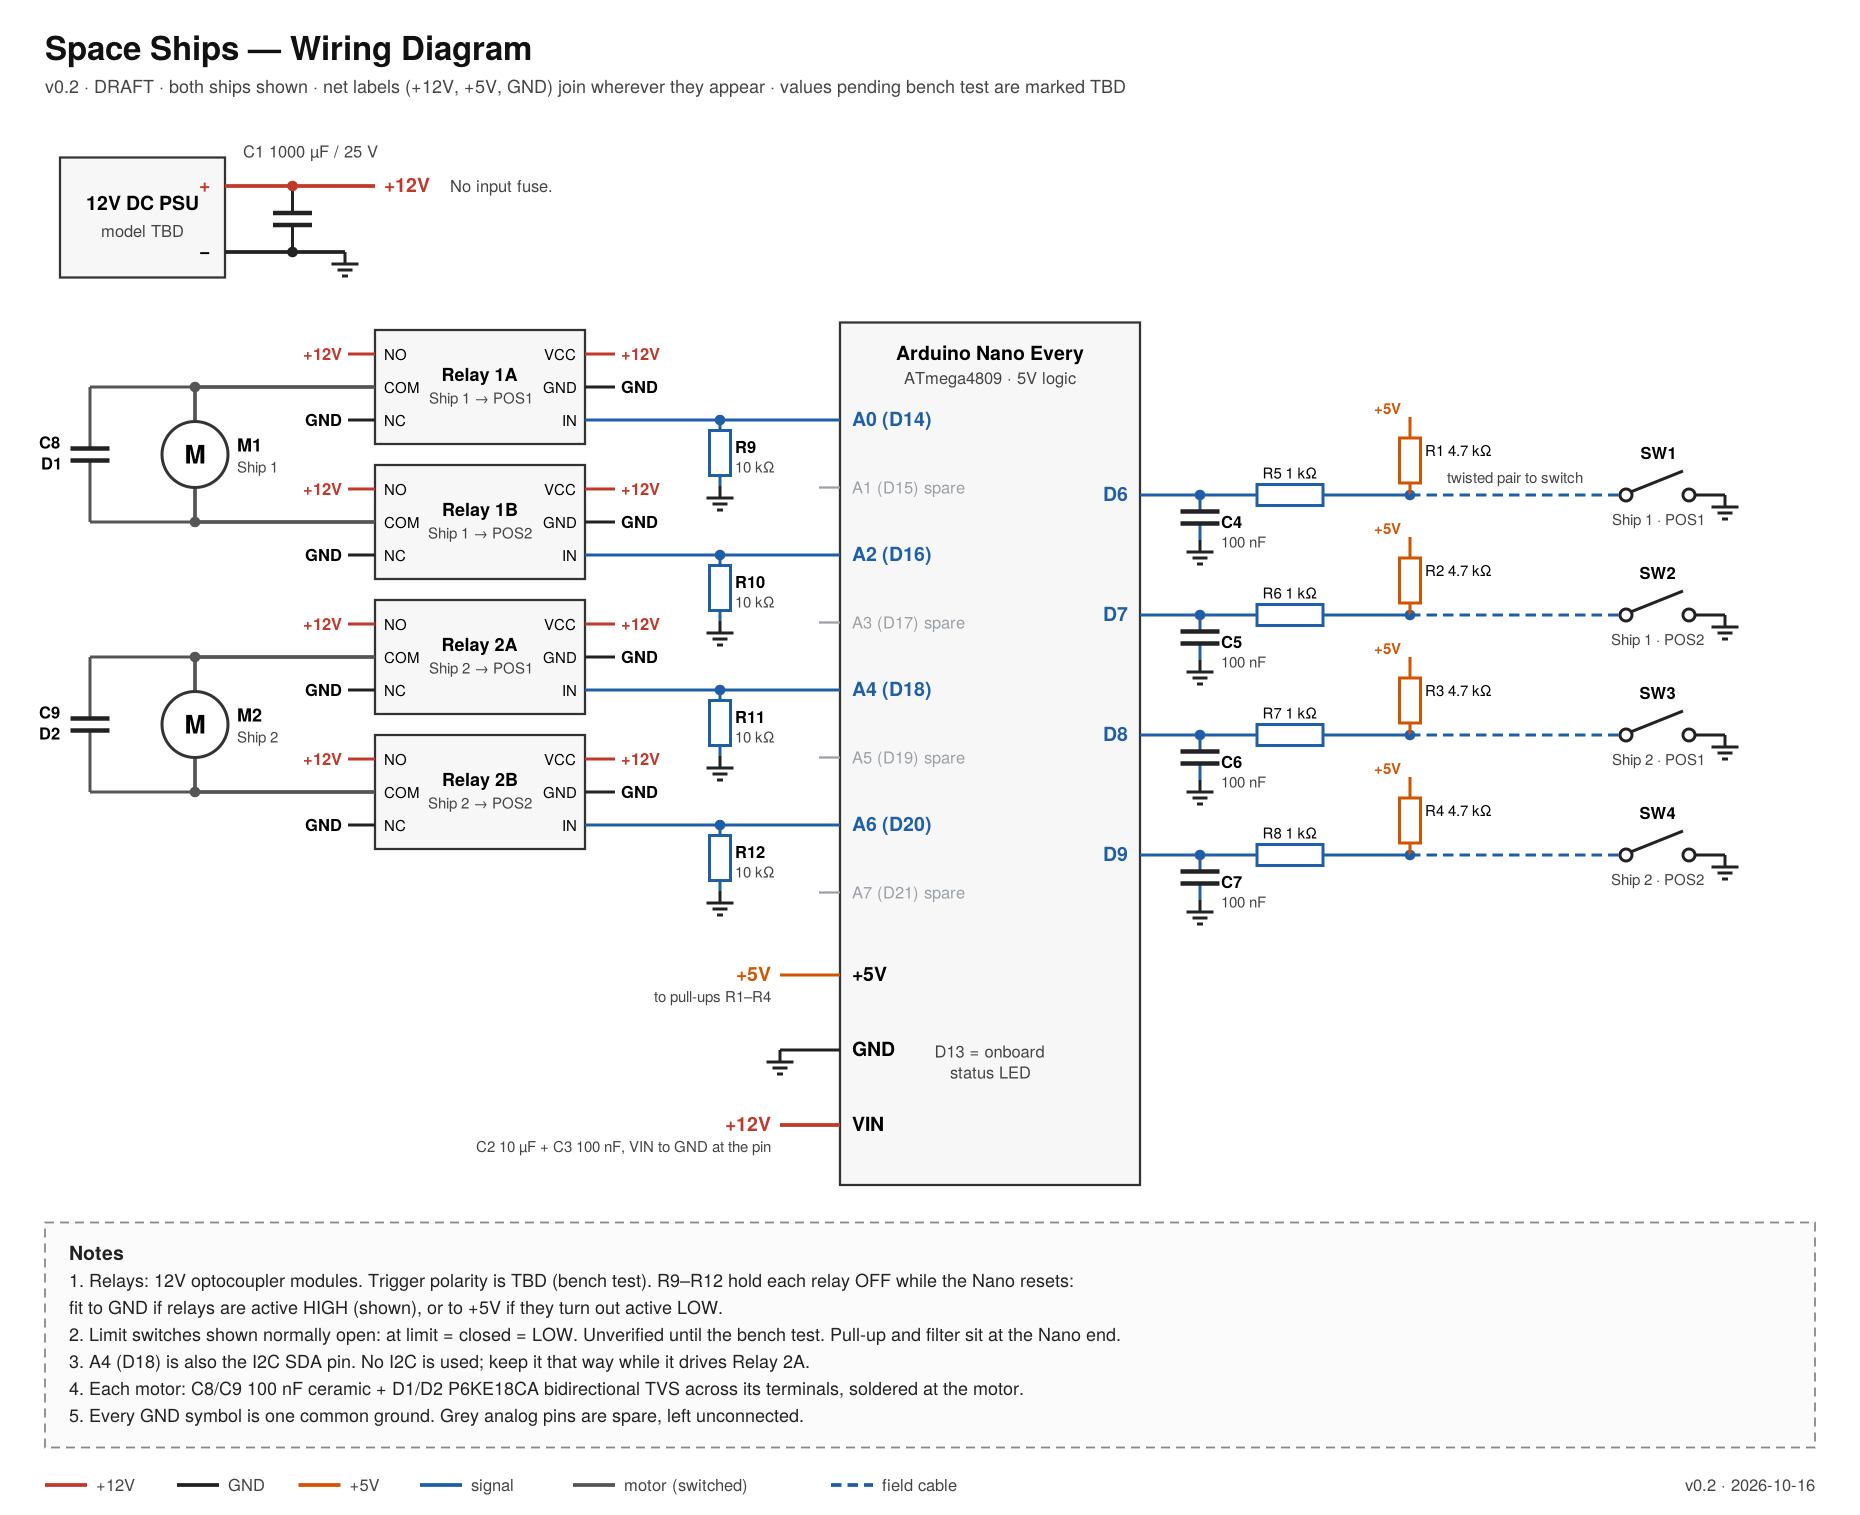
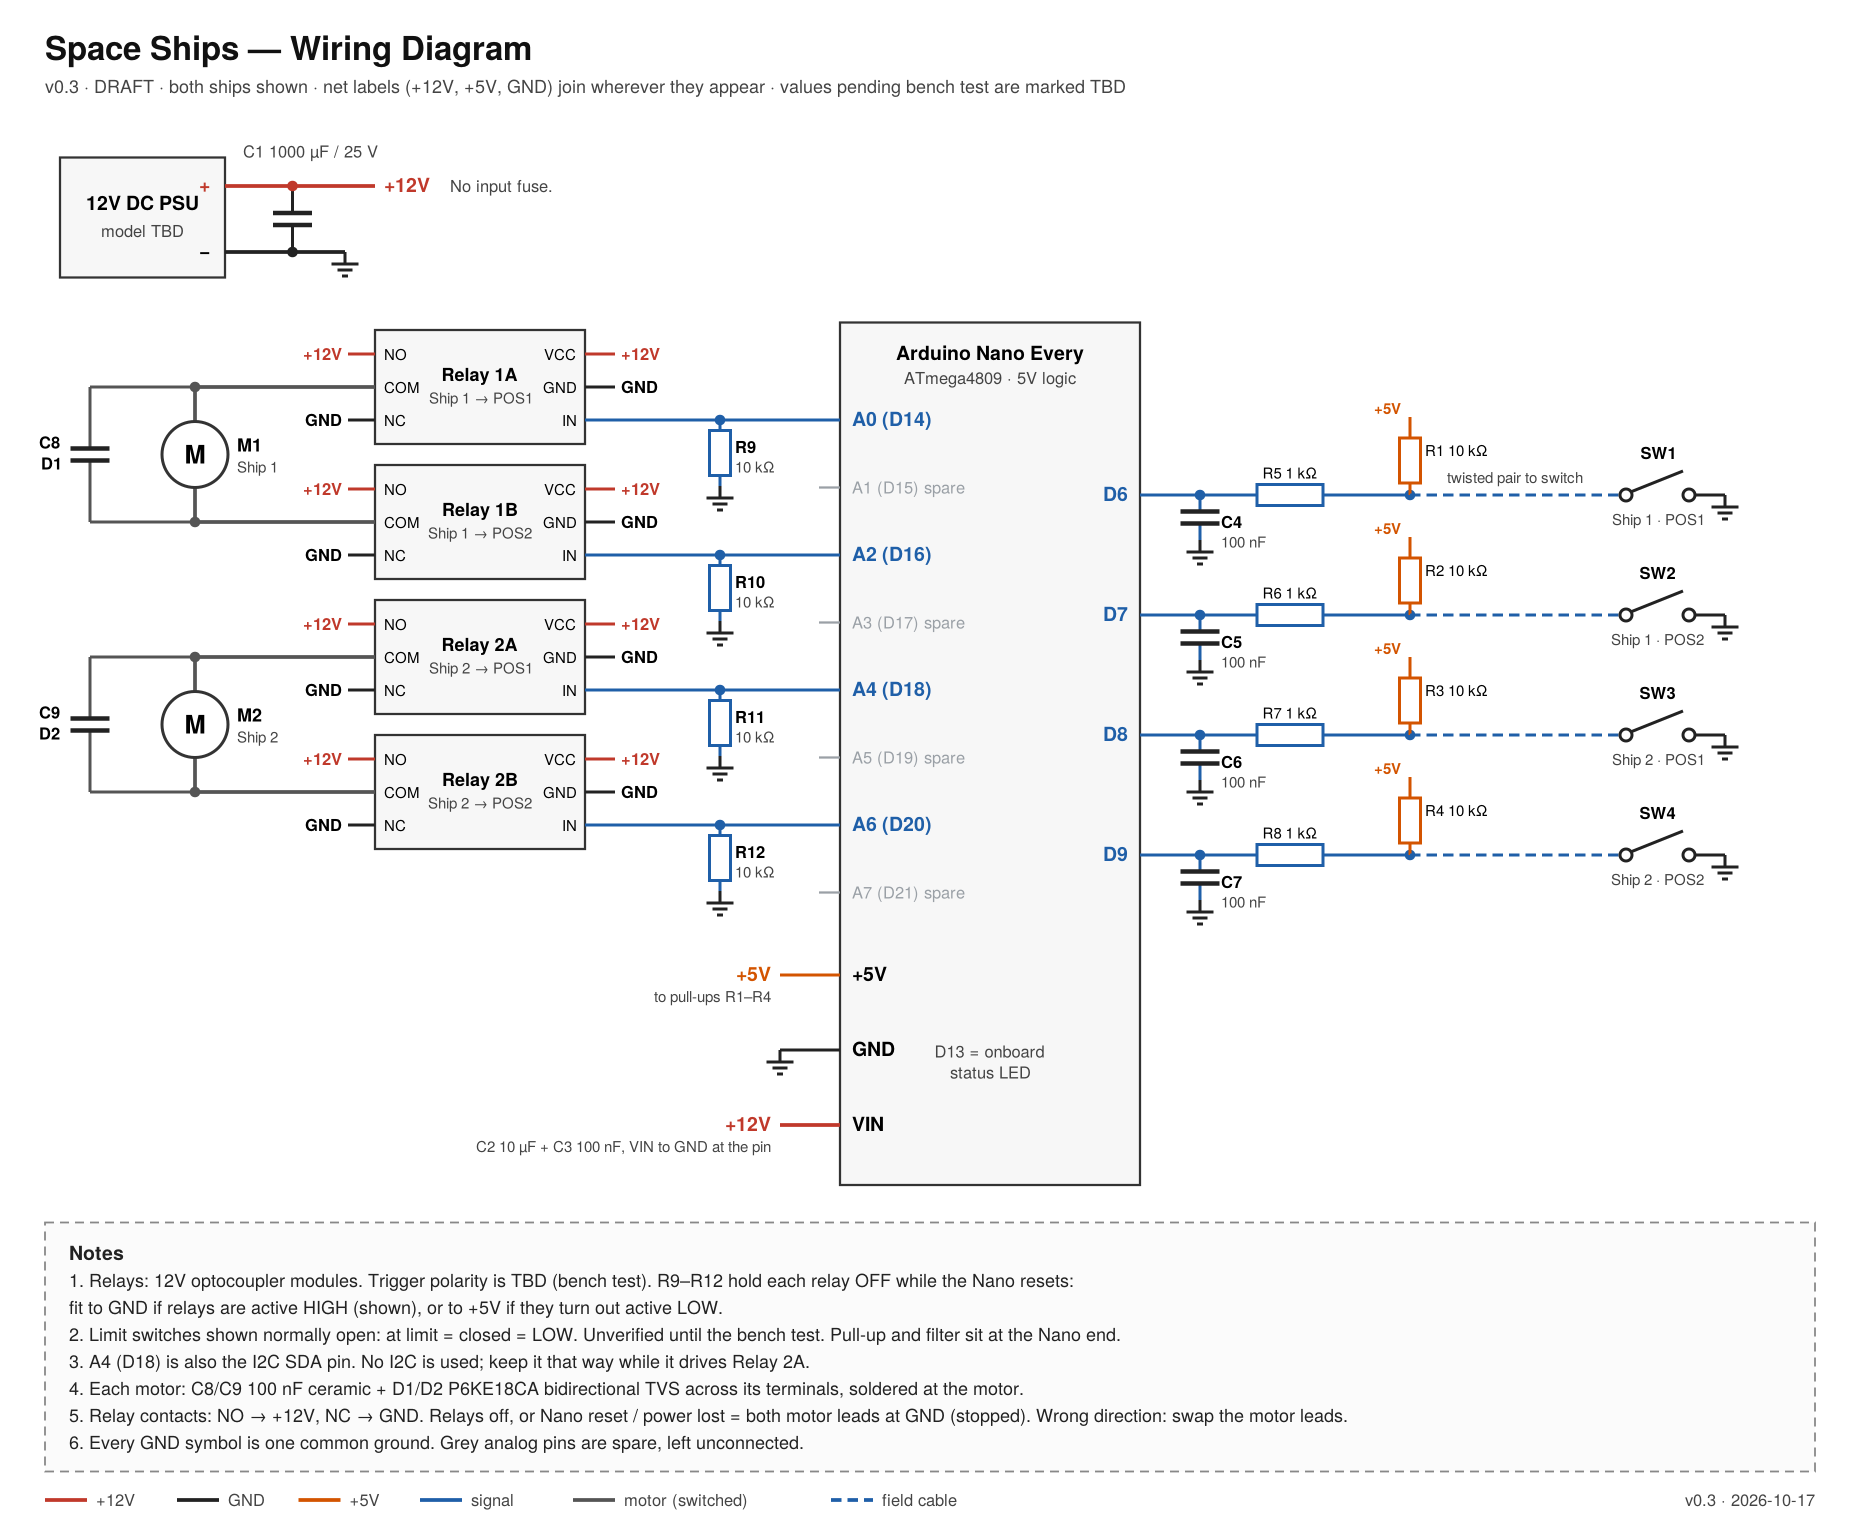
Add hold-to-jog to bench_test; 10 kOhm limit pull-ups in docs
bench_test:
- Hold 5-8 to jog a ship (same order as 1-4); dead-man on key auto-repeat
- Stops on release, at the target limit, on any other key, or on any fault
- Reuses moveArrived() checks: both limits, wrong way, timeout
- Blocks reversing a motor within REVERSE_PAUSE of it stopping
- Ignores repeats of a held key after a jog stops, so it can't restart itself

Docs:
- Limit pull-ups R1-R4: 4.7k -> 10k, with safe ranges (ATmega4809 Table 4-16)
- Wiring diagram v0.3: R1-R4 10k, note on fail-safe relay contacts
- CLAUDE.md: bench_test description includes jog

Claude-Session: https://claude.ai/code/session_01QFekpdcCQPzgiZhMDM4HP3

diff --git a/src/bench_test.cpp b/src/bench_test.cpp
@@ -6,6 +6,7 @@
 /*****  Space Ships — bench test  *****
  *  Serial menu for bench setup: 115200 baud, single-key commands (no Enter needed).
  *    1-4  Click one relay for CLICK_TIME (check RELAY_ON polarity)
+ *    5-8  Hold to jog a ship (same order as 1-4). Stops on release, at the limit, or on any fault.
  *    w    Watch raw limit levels, print on every change (check NO/NC → LIMIT_ACTIVE)
  *    a/b  Time ship 1/2: home to POS1, then ROUND_TRIPS round trips, print averages
  *    s    Stop all motors
@@ -25,6 +26,13 @@
 #define REVERSE_PAUSE       2000UL   // Motor off between legs (ms), so it stops before reversing
 #define ROUND_TRIPS         5
 
+// Jog (hold 5-8). A serial terminal sends no key-release event: a held key sends one
+// character, pauses (desktop "repeat delay"), then repeats. The motor runs only while
+// characters keep arriving (dead-man). Repeat delay/rate are desktop settings: unverified,
+// tune these if a held key stutters (raise FIRST) or stops late (lower REPEAT).
+#define JOG_FIRST_TIMEOUT   700UL    // Wait this long after the first press for repeats to start (ms)
+#define JOG_REPEAT_TIMEOUT  200UL    // Once repeating, stop this long after the last character (ms)
+
 /****** Types ******/
 struct LimitSwitch {
   uint8_t pin;
@@ -41,7 +49,7 @@ struct BenchShip {
   LimitSwitch limitPos2;
 };
 
-enum Mode { IDLE, CLICKING, WATCHING, HOMING, MOVING, PAUSING };
+enum Mode { IDLE, CLICKING, WATCHING, HOMING, MOVING, PAUSING, JOGGING };
 enum Dir  { TO_POS1, TO_POS2 };
 
 /****** Objects ******/
@@ -57,6 +65,19 @@ unsigned long modeStart = 0;
 uint8_t legIndex = 0;                    // Even = to POS2, odd = to POS1
 unsigned long legTimes[2][ROUND_TRIPS];  // [Dir][trip], ms
 uint8_t watchRaw[4];                     // Last printed raw levels in watch mode
+
+// Per-ship motor history, so a jog can't reverse a motor that has only just stopped.
+bool motorOn[2]           = { false, false };
+bool motorUsed[2]         = { false, false };
+Dir lastDir[2]            = { TO_POS1, TO_POS1 };
+unsigned long motorOffAt[2] = { 0, 0 };
+
+// Jog key tracking
+char jogKey = 0;                         // Key holding the current jog
+bool jogRepeating = false;               // True once auto-repeat has started
+unsigned long jogLastKey = 0;            // Last time jogKey arrived
+char latchedKey = 0;                     // Held key ignored until released, so repeats can't restart a stopped jog
+unsigned long latchedLastAt = 0;
 
 /****** Limit Switch Helpers ******/
 void limitBegin(LimitSwitch &sw) {
@@ -84,6 +105,11 @@ LimitSwitch &behindOf(BenchShip &s, Dir d) { return (d == TO_POS1) ? s.limitPos2
 void motorStop(BenchShip &s) {
   digitalWrite(s.relayToPos1, RELAY_OFF);
   digitalWrite(s.relayToPos2, RELAY_OFF);
+  uint8_t i = s.id - 1;
+  if (motorOn[i]) {
+    motorOn[i]    = false;
+    motorOffAt[i] = millis();
+  }
 }
 
 void motorToPos1(BenchShip &s) {
@@ -97,7 +123,18 @@ void motorToPos2(BenchShip &s) {
 }
 
 void motorDrive(BenchShip &s, Dir d) {
+  uint8_t i = s.id - 1;
+  motorOn[i]   = true;
+  motorUsed[i] = true;
+  lastDir[i]   = d;
   if (d == TO_POS1) motorToPos1(s); else motorToPos2(s);
+}
+
+// Reversing a motor that is still spinning down stresses the relay contacts and gearbox.
+bool reverseTooSoon(const BenchShip &s, Dir d) {
+  uint8_t i = s.id - 1;
+  if (!motorUsed[i] || lastDir[i] == d) return false;
+  return motorOn[i] || (millis() - motorOffAt[i] < REVERSE_PAUSE);
 }
 
 void stopAll() {
@@ -122,6 +159,7 @@ void printMenu() {
   Serial.print(F("2  click Ship 1 relay to POS2\n"));
   Serial.print(F("3  click Ship 2 relay to POS1\n"));
   Serial.print(F("4  click Ship 2 relay to POS2\n"));
+  Serial.print(F("5-8 hold to jog, same order as 1-4 (release to stop)\n"));
   Serial.print(F("w  watch raw limit levels\n"));
   Serial.print(F("a  time Ship 1 ("));
   Serial.print(ROUND_TRIPS);
@@ -349,6 +387,76 @@ void updateTiming() {
   }
 }
 
+/****** Jog (hold 5-8) ******/
+// Ignore a held key until it is released, so key repeats can't restart a jog that just stopped.
+void latchKey(char c) {
+  latchedKey    = c;
+  latchedLastAt = millis();
+}
+
+bool isLatched(char c) {
+  if (c != latchedKey) return false;
+  if (millis() - latchedLastAt >= JOG_REPEAT_TIMEOUT) {  // Gap since last repeat = key was released
+    latchedKey = 0;
+    return false;
+  }
+  latchedLastAt = millis();  // Still held: keep ignoring
+  return true;
+}
+
+void startJog(BenchShip &s, Dir d, char key) {
+  if (s.limitPos1.active && s.limitPos2.active) {
+    abortRun(F("both limits active — check wiring"));
+    latchKey(key);
+    return;
+  }
+  if (aheadOf(s, d).active) {
+    printShipDir(s, d);
+    Serial.print(F(": already at that limit, not driving into the end\n> "));
+    latchKey(key);
+    return;
+  }
+  if (reverseTooSoon(s, d)) {
+    printShipDir(s, d);
+    Serial.print(F(": motor just stopped, wait "));
+    Serial.print(REVERSE_PAUSE);
+    Serial.print(F(" ms before reversing\n> "));
+    latchKey(key);
+    return;
+  }
+  runShip      = &s;
+  runDir       = d;
+  modeStart    = millis();
+  jogKey       = key;
+  jogRepeating = false;
+  jogLastKey   = millis();
+  mode         = JOGGING;
+  printShipDir(s, d);
+  Serial.print(F(": jogging, release key to stop\n"));
+  motorDrive(s, d);
+}
+
+void endJog(const __FlashStringHelper *reason) {
+  Serial.print(reason);
+  Serial.print(F("\n"));
+  latchKey(jogKey);
+  finishRun();
+}
+
+void updateJog() {
+  // Same arrival and fault checks as a timed move: limit ahead, both limits, wrong way, timeout.
+  if (moveArrived()) {
+    endJog(F("Reached limit, stopped"));
+    return;
+  }
+  if (mode != JOGGING) {  // moveArrived() aborted on a fault
+    latchKey(jogKey);
+    return;
+  }
+  unsigned long wait = jogRepeating ? JOG_REPEAT_TIMEOUT : JOG_FIRST_TIMEOUT;
+  if (millis() - jogLastKey >= wait) endJog(F("Key released, stopped"));
+}
+
 /****** Serial Commands ******/
 void handleIdleKey(char c) {
   switch (c) {
@@ -356,6 +464,10 @@ void handleIdleKey(char c) {
     case '2': startClick(ships[0], TO_POS2); break;
     case '3': startClick(ships[1], TO_POS1); break;
     case '4': startClick(ships[1], TO_POS2); break;
+    case '5': startJog(ships[0], TO_POS1, c); break;
+    case '6': startJog(ships[0], TO_POS2, c); break;
+    case '7': startJog(ships[1], TO_POS1, c); break;
+    case '8': startJog(ships[1], TO_POS2, c); break;
     case 'w': startWatch(); break;
     case 'a': startTiming(ships[0]); break;
     case 'b': startTiming(ships[1]); break;
@@ -375,12 +487,19 @@ void handleSerial() {
   char c = Serial.read();
   if (c == '\r' || c == '\n') return;
 
-  if (mode == WATCHING) {
+  if (mode == JOGGING) {
+    if (c == jogKey) {           // Key still held: keep the dead-man alive
+      jogRepeating = true;
+      jogLastKey   = millis();
+    } else {                     // Any other key stops the jog
+      endJog(F("Jog stopped by key"));
+    }
+  } else if (mode == WATCHING) {
     Serial.print(F("Watch ended\n> "));
     mode = IDLE;
   } else if (mode != IDLE) {
     abortRun(F("stopped by key"));
-  } else {
+  } else if (!isLatched(c)) {    // Idle: drop repeats of a key that just stopped a jog
     handleIdleKey(c);
   }
 }
@@ -388,7 +507,7 @@ void handleSerial() {
 /****** Status LED ******/
 // ON while a motor is driven, so a running motor is visible without the monitor.
 void updateStatusLED() {
-  bool driving = (mode == CLICKING || mode == HOMING || mode == MOVING);
+  bool driving = (mode == CLICKING || mode == HOMING || mode == MOVING || mode == JOGGING);
   digitalWrite(STATUS_LED, driving ? HIGH : LOW);
 }
 
@@ -423,6 +542,7 @@ void loop() {
 
   switch (mode) {
     case CLICKING: updateClick(); break;
+    case JOGGING:  updateJog(); break;
     case WATCHING: updateWatch(); break;
     case HOMING:
     case MOVING:

diff --git a/CLAUDE.md b/CLAUDE.md
@@ -20,13 +20,13 @@
 - D0/D1 reserved (hardware USART). Spare: D2–D5, D10–D12, D15 (A1), D17 (A3), D19 (A5), D21 (A7).
 - Relays: 12V optocoupler modules, the same type as the Castle Scenes project. Trigger polarity to be verified on the bench, then set `RELAY_ON`.
 - Limit switches: assumed NO to GND with pull-up (`LIMIT_ACTIVE LOW`). Unverified until the bench test.
-- Limit input filter: 4.7 kΩ pull-up, 1 kΩ series, 100 nF to GND at the pin.
+- Limit input filter: 10 kΩ pull-up, 1 kΩ series, 100 nF to GND at the pin. OK ranges: pull-up 2.2–10 kΩ, series 470 Ω–2.2 kΩ (keep small vs the 20–50 kΩ internal pull-up), cap 47–470 nF (ATmega4809 DS40002016B, Table 4-16).
 - 12V supply: unknown. Motor running and stall current: unknown. No input fuse.
 - Buses: none. Serial: USB at 115200 baud.
 
 ## Toolchain and commands
 - VS Code + PlatformIO on Ubuntu Linux; repo on GitHub.
-- Envs: `mw_space_two_simple_ships` is the live display firmware; `bench_test` is a serial menu to click each relay, read the limit switches, and time ship travel for tuning.
+- Envs: `mw_space_two_simple_ships` is the live display firmware; `bench_test` is a serial menu to click each relay, read the limit switches, time ship travel for tuning, and jog ships by holding 5–8.
 
 ## Code standards
 - Config constants at the top of each file, so tuning never means hunting through logic.

diff --git a/ref/BOM.md b/ref/BOM.md
@@ -15,7 +15,7 @@ All through-hole, on perfboard. The Nano sits in female headers so it lifts out 
 | C1 | 1 | Electrolytic capacitor | 1000 µF, 25 V min (470 µF OK) | 12V bulk: covers motor start-up dips |
 | C2 | 1 | Electrolytic capacitor | 10 µF, 25 V min | Local reservoir at Nano VIN |
 | C3 | 1 | Ceramic capacitor | 100 nF, 50 V, X7R | High-frequency decoupling at Nano VIN, close to the pin |
-| R1–R4 | 4 | Resistor | 4.7 kΩ, ¼ W | Limit input pull-ups to +5V; stiffer than the internal pull-up |
+| R1–R4 | 4 | Resistor | 10 kΩ, ¼ W (2.2–10 kΩ OK) | Limit input pull-ups to +5V; stiffer than the internal pull-up |
 | R5–R8 | 4 | Resistor | 1 kΩ, ¼ W | Limit input series resistor; forms RC filter with C4–C7, limits surge current |
 | C4–C7 | 4 | Ceramic capacitor | 100 nF, 50 V | Limit input filter, at the Arduino pin |
 | R9–R12 | 4 | Resistor | 10 kΩ, ¼ W | Pull-down on each relay IN line; holds relays off while the Nano resets or uploads |
